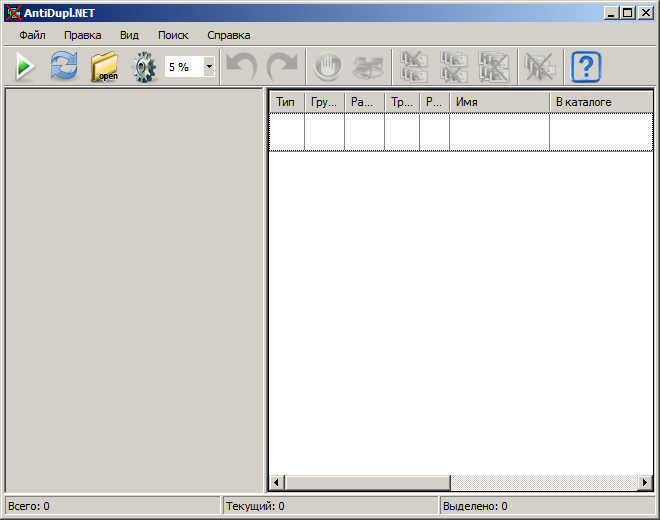
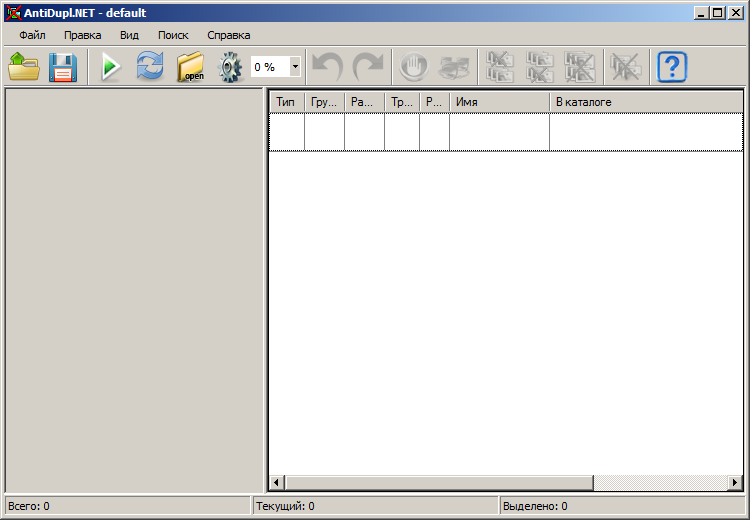
*updated help to version 2.3.1;

Changed region(s): [[0.0, 0.0, 0.9394, 0.9846], [0.6667, 0.1538, 1.0, 0.9846], [0.9091, 0.0, 1.0, 0.0615]]

diff --git a/data/help/english/menu.html b/data/help/english/menu.html
@@ -21,10 +21,12 @@ Menu <b>File</b> contains the following items:
 
 <ul>
  <li><p align="justify">
-<b>Open search profile</b> - clicking on the item you can load a previously saved search profile (search settings, search paths and search results).
+<img src="../../resources/images/ProfileOpenMenu.img" /> <b>Open search profile</b> - clicking on the item you can load a previously saved search profile (search settings, search paths and search results).
+This item is duplicated by button of the <a href="index.html?page=toolbar.html" target="_top">Tool Bar</a>.
  </p></li>
  <li><p align="justify">
-<b>Save search profile as</b> - this item allows you to save your current search profile with a new name.
+<img src="../../resources/images/ProfileSaveAsMenu.img" /> <b>Save search profile as</b> - this item allows you to save your current search profile with a new name.
+This item is duplicated by button of the <a href="index.html?page=toolbar.html" target="_top">Tool Bar</a>.
  </p></li>
  <li><p align="justify">
 <b>Exit</b> - when you click on this point the program will exit.

diff --git a/data/help/english/developers.html b/data/help/english/developers.html
@@ -27,7 +27,7 @@ The author expresses his personal thanks to:
 
 <ul>
  <li><p align="justify">
-Vasily Fedoseev for the graphic design for versions <b>1.2.1.0-1.4.0.0, 1.5.2.0-2.3.0</b>.
+Vasily Fedoseev for the graphic design for versions <b>1.2.1.0-1.4.0.0, 1.5.2.0-2.3.1</b>.
  </p></li>
  <li><p align="justify">
 Roberto Corica for the translation into Italian language for versions <b>1.5.3.0-1.6.0.0, 1.8.0.354-1.8.5.379</b>.
@@ -42,7 +42,7 @@ Jinn H. for the translation into Traditional Chinese language for versions <b>1.
 sls463 for the translation into Simplified Chinese language for versions <b>1.8.3.372-1.8.5.379, 2.1.1.466-2.2.6, 2.2.9-2.2.11</b>.
  </p></li>
  <li><p align="justify">
-Kai Evers for the translation into German language for versions <b>1.8.4.375-1.8.5.379, 2.1.0.452-2.2.6, 2.2.11</b>.
+Kai Evers for the translation into German language for versions <b>1.8.4.375-1.8.5.379, 2.1.0.452-2.2.6, 2.2.11, 2.3.1</b>.
  </p></li>
  <li><p align="justify">
 Ki Chun Park for the translation into Korean language for version <b>1.8.5.379</b>.

diff --git a/data/help/english/news.html b/data/help/english/news.html
@@ -7,6 +7,43 @@
 
 <h3>Last Updates</h3>
 
+<h3>2.3.1</h3>
+
+<p align=justify>
+There are following changes in the current version:
+</p>
+
+<ul>
+ <li><p align="justify">
+Added translation into Byelorussian.
+ </p></li>
+ <li><p align="justify">
+Added translation into German.
+ </p></li>
+ <li><p align="justify">
+The menu items "Open search profile" and "Save search profile as" was duplicated on the toolbar.
+ </p></li>
+</ul>
+
+<p align="justify">
+Also bugs were fixed:
+</p>
+
+<ul>
+ <li><p align="justify">
+The user can not save a search profile with zero number of results.
+ </p></li>
+ <li><p align="justify">
+The threshold difference in the toolbar was not updated when loading the search profile.
+ </p></li>
+ <li><p align="justify">
+Sometimes the program settings were not saved.
+ </p></li>
+  <li><p align="justify">
+The program can't load the results containing images with defects.
+ </p></li>
+ </ul>
+ 
 <h3>2.3.0</h3>
 
 <p align=justify>

diff --git a/data/help/english/toolbar.html b/data/help/english/toolbar.html
@@ -22,6 +22,14 @@ The following buttons are placed there:
 
 <ul>
  <li><p align="justify">
+<img src="../../resources/images/ProfileOpenButton.img" /> <b>Open search profile</b> - 
+clicking on the item you can load a previously saved search profile (search settings, search paths and search results).
+ </p></li>
+ <li><p align="justify">
+<img src="../../resources/images/ProfileSaveAsButton.img" /> <b>Save search profile as</b> - 
+this item allows you to save your current search profile with a new name.
+ </p></li>
+ <li><p align="justify">
 <img src="../../resources/images/StartButton.img" /> <b>Start search</b> - 
 if you click this item then the search will be started. 
  </p></li>

diff --git a/data/help/english/intro.html b/data/help/english/intro.html
@@ -20,7 +20,7 @@ In addition, the program can find images with some types of defects.
 
 <p align="justify">
 <b>AntiDupl.NET</b> program is free and open-source software.
-It is simple to use, has high speed and accuracy of work, supports Russian and English interface.
+It is simple to use, has high speed and accuracy of work, supports Russian, Byelorussian, German and English interface.
 </p>
 
 </td></tr></table></body>
